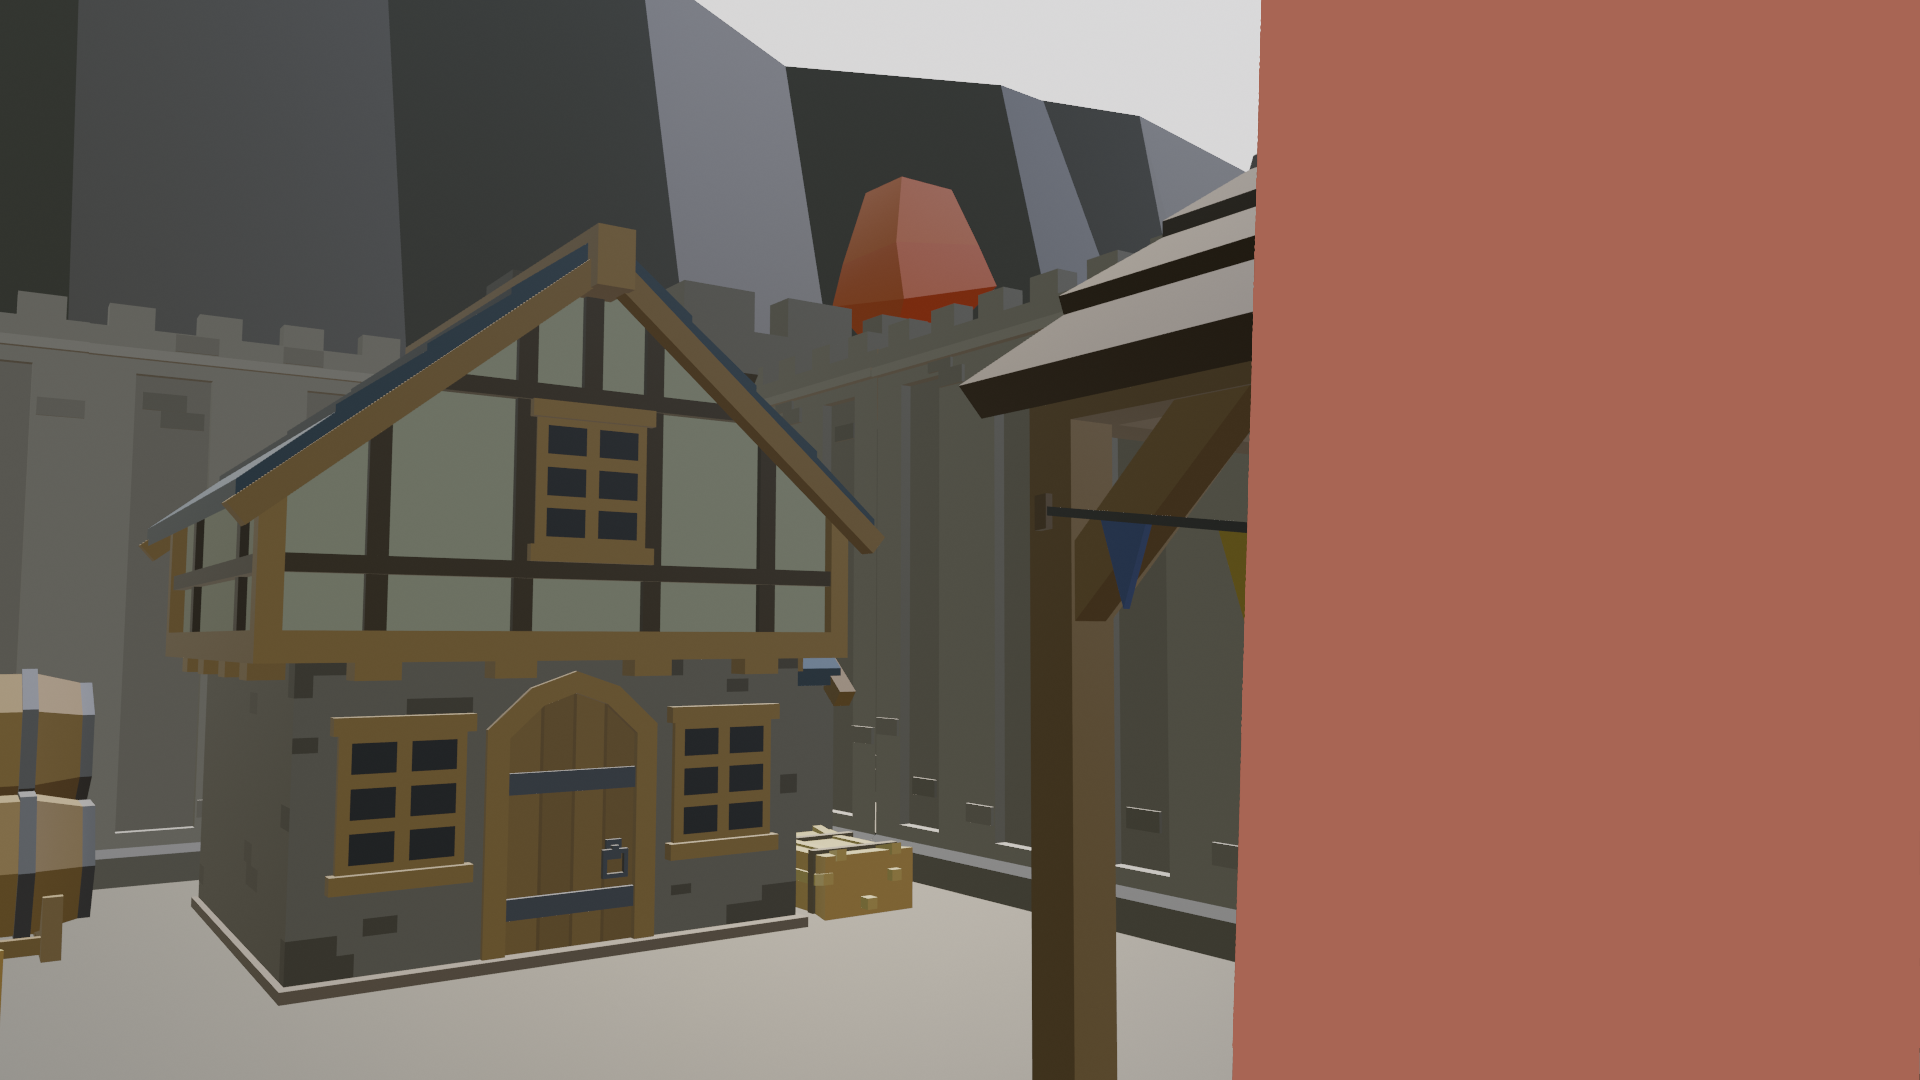
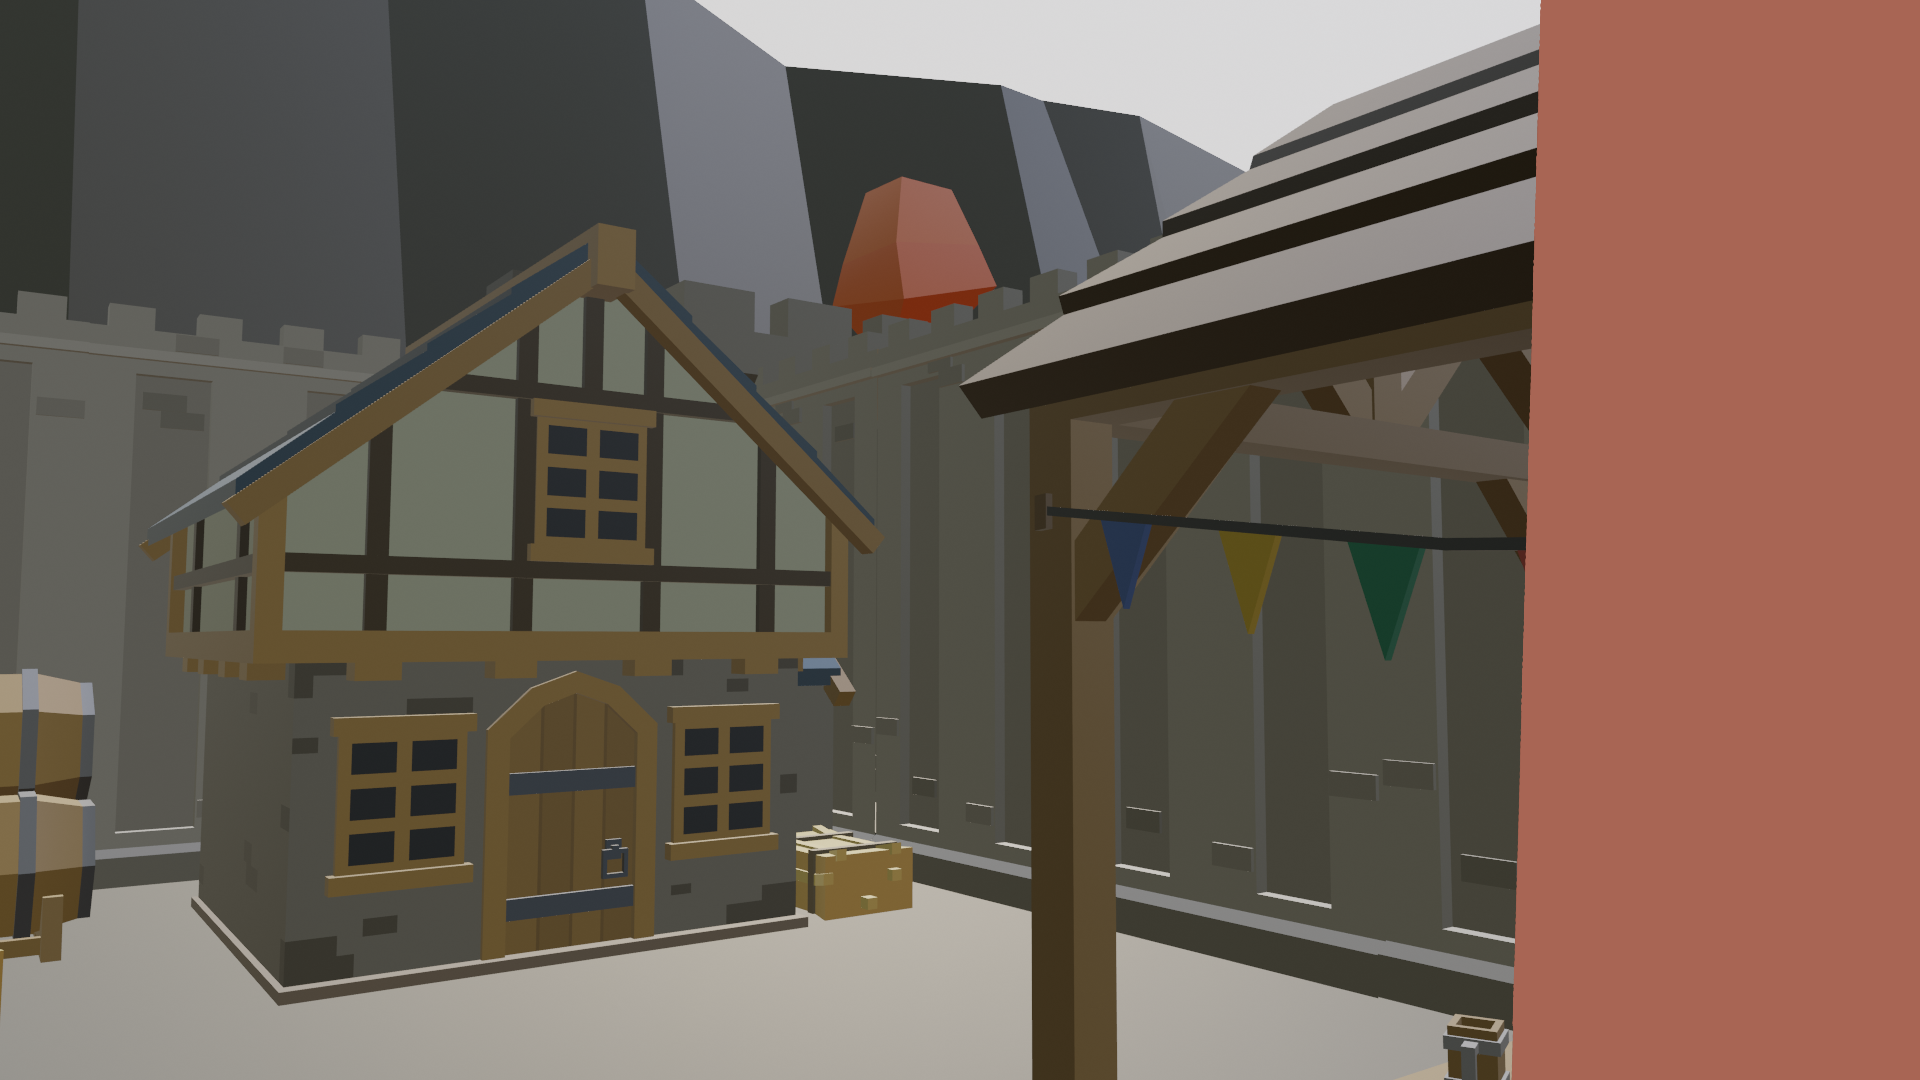
Start_menu_Testing
please text

Changed region(s): [[0.625, 0.0, 0.8125, 1.0]]

diff --git a/Start_menu.html b/Start_menu.html
@@ -4,26 +4,41 @@
 <title>PolyKingdom</title>
 
 <style>
-body, html {
-  height: 100%;
-}
 
-.bg {
+        .left {
+            position: absolute;
+            width: 50px;
+            height: 50px;
+            background-color: blue;
+            max-height: 100%;
+            right:0;
+   
+        }
+        .bg_div {
+            position: absolute;
 
-  /* Full height */
-  height: 100%;
-  width: 100%;
+            height: 100%;
+            width: 100%;
+            left:0;
+            background-color:rgb(168,101,84);
+            top:0;
+   
+        }
+        .bg {
+            position: absolute;
+            max-height: 100%;
+            left:0;
+   
+        }
 
-  /* Center and scale the image nicely */
-  background-position: center;
-  background-repeat: no-repeat;
-  background-size: cover;
-}
 </style>
 
 </head>
 <body>
+    <div class="bg_div">
     <img  class="bg" src="assets/images/Main_Menu.png" alt="Home_Menu">
+    </div>
+
 
 
 </body>
